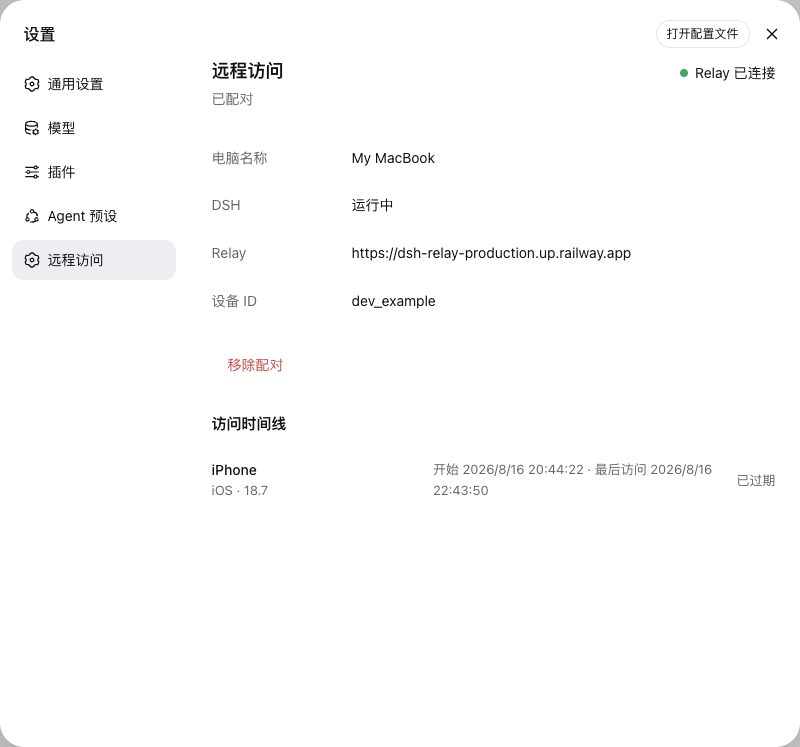
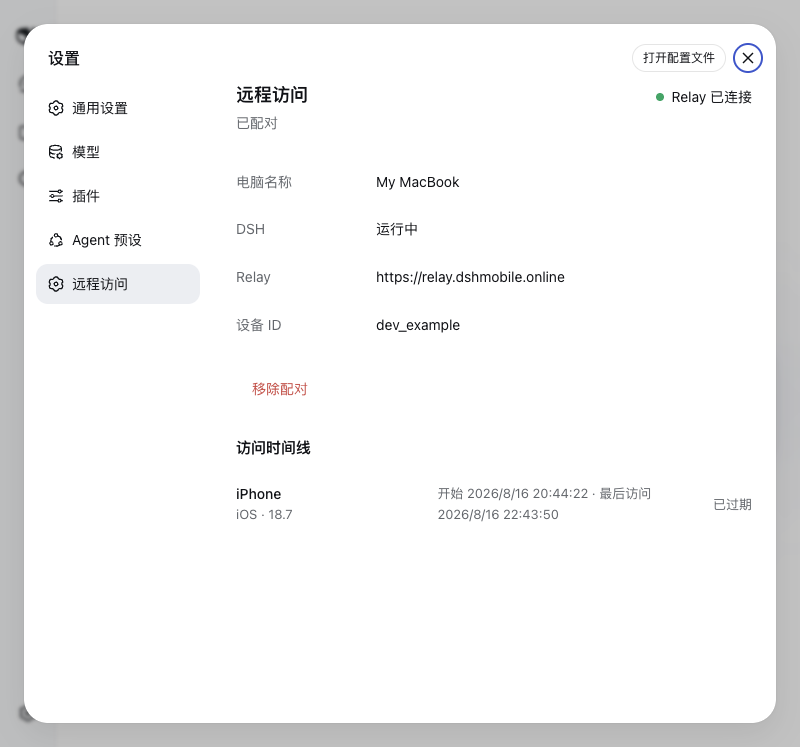
Make the public Relay hostname the installable plugin default
Release plugin 0.1.2 with relay.dshmobile.online in the DSH bundle, keep version output and installation guidance aligned, and refresh the real WebUI management screenshot.

Constraint: Existing users may override the Relay through DSH_RELAY
Rejected: Change only the README | installed bundles would continue connecting to the provider hostname
Confidence: high
Scope-risk: moderate
Directive: Keep cordis.patch.yml covered by an explicit public-hostname test
Tested: TypeScript build, 11 tests, npm audit, npm pack dry run, live DSH WebUI connection and screenshot

diff --git a/test/bundle.test.ts b/test/bundle.test.ts
@@ -34,6 +34,7 @@ test("publishes an installable DSH bundle manifest", async () => {
   assert.match(client, /移除配对/);
   assert.match(patch, /name: '@april-jk\/dsh-mobile'/);
   assert.match(patch, /inject: \[webStartup, webServer\]/);
+  assert.match(patch, /https:\/\/relay\.dshmobile\.online/);
   assert.match(patch, /dsh-host-directory-picker-browse/);
   assert.match(patch, /dsh-client-ui-directory-picker-browse/);
 });

diff --git a/dist/cli.js b/dist/cli.js
@@ -7,7 +7,7 @@ import { RemoteAccessManager } from "./remote-access.js";
 const program = new Command()
     .name("dsh-mobile")
     .description("Remote companion for DeepSeek Harness")
-    .version("0.1.0");
+    .version("0.1.2");
 program
     .command("pair")
     .description("Pair this computer with the mobile app")

diff --git a/src/cli.ts b/src/cli.ts
@@ -8,7 +8,7 @@ import { RemoteAccessManager } from "./remote-access.js";
 const program = new Command()
   .name("dsh-mobile")
   .description("Remote companion for DeepSeek Harness")
-  .version("0.1.0");
+  .version("0.1.2");
 program
   .command("pair")
   .description("Pair this computer with the mobile app")

diff --git a/README.md b/README.md
@@ -24,21 +24,21 @@ Requirements:
 The immutable GitHub tag is the recommended public installation path:
 
 ```bash
-dsh plugin --profile web add github:april-jk/dsh-mobile-plugin#v0.1.1
+dsh plugin --profile web add github:april-jk/dsh-mobile-plugin#v0.1.2
 dsh web
 ```
 
 Each GitHub Release also contains a prebuilt `.tgz`. It can be downloaded and installed without running a source build:
 
 ```bash
-dsh plugin --profile web add ./april-jk-dsh-mobile-0.1.1.tgz
+dsh plugin --profile web add ./april-jk-dsh-mobile-0.1.2.tgz
 dsh web
 ```
 
 Once the public npm package is available, the equivalent registry install is:
 
 ```bash
-dsh plugin --profile web add @april-jk/dsh-mobile@0.1.1
+dsh plugin --profile web add @april-jk/dsh-mobile@0.1.2
 dsh web
 ```
 
@@ -66,7 +66,7 @@ The same settings page can remove the pairing. Removal revokes the Relay device 
 ## Network and data behavior
 
 - DSH remains bound to `127.0.0.1:3080`; the plugin never creates a public listener.
-- The computer opens an outbound WSS connection to `https://dsh-relay-production.up.railway.app` by default. Set `DSH_RELAY` before starting DSH to use another compatible Relay.
+- The computer opens an outbound WSS connection to `https://relay.dshmobile.online` by default. Set `DSH_RELAY` before starting DSH to use another compatible Relay.
 - The Relay forwards authenticated HTTP and WebSocket traffic. MVP traffic is protected by TLS but does not yet have application-level end-to-end encryption.
 - The plugin stores its Relay device token locally in `~/.dsh-remote/config.json` and never sends that token to the mobile client.
 - The Relay records bounded phone metadata and access times for the access timeline. It does not persist DSH request or response bodies.

diff --git a/docs/SHOW-YOUR-PLUGIN.md b/docs/SHOW-YOUR-PLUGIN.md
@@ -24,7 +24,7 @@ DSH Mobile Remote adds a **Remote Access** section to the DeepSeek Harness Web U
 ## Install
 
 ```bash
-dsh plugin --profile web add github:april-jk/dsh-mobile-plugin#v0.1.1
+dsh plugin --profile web add github:april-jk/dsh-mobile-plugin#v0.1.2
 dsh web
 ```
 
